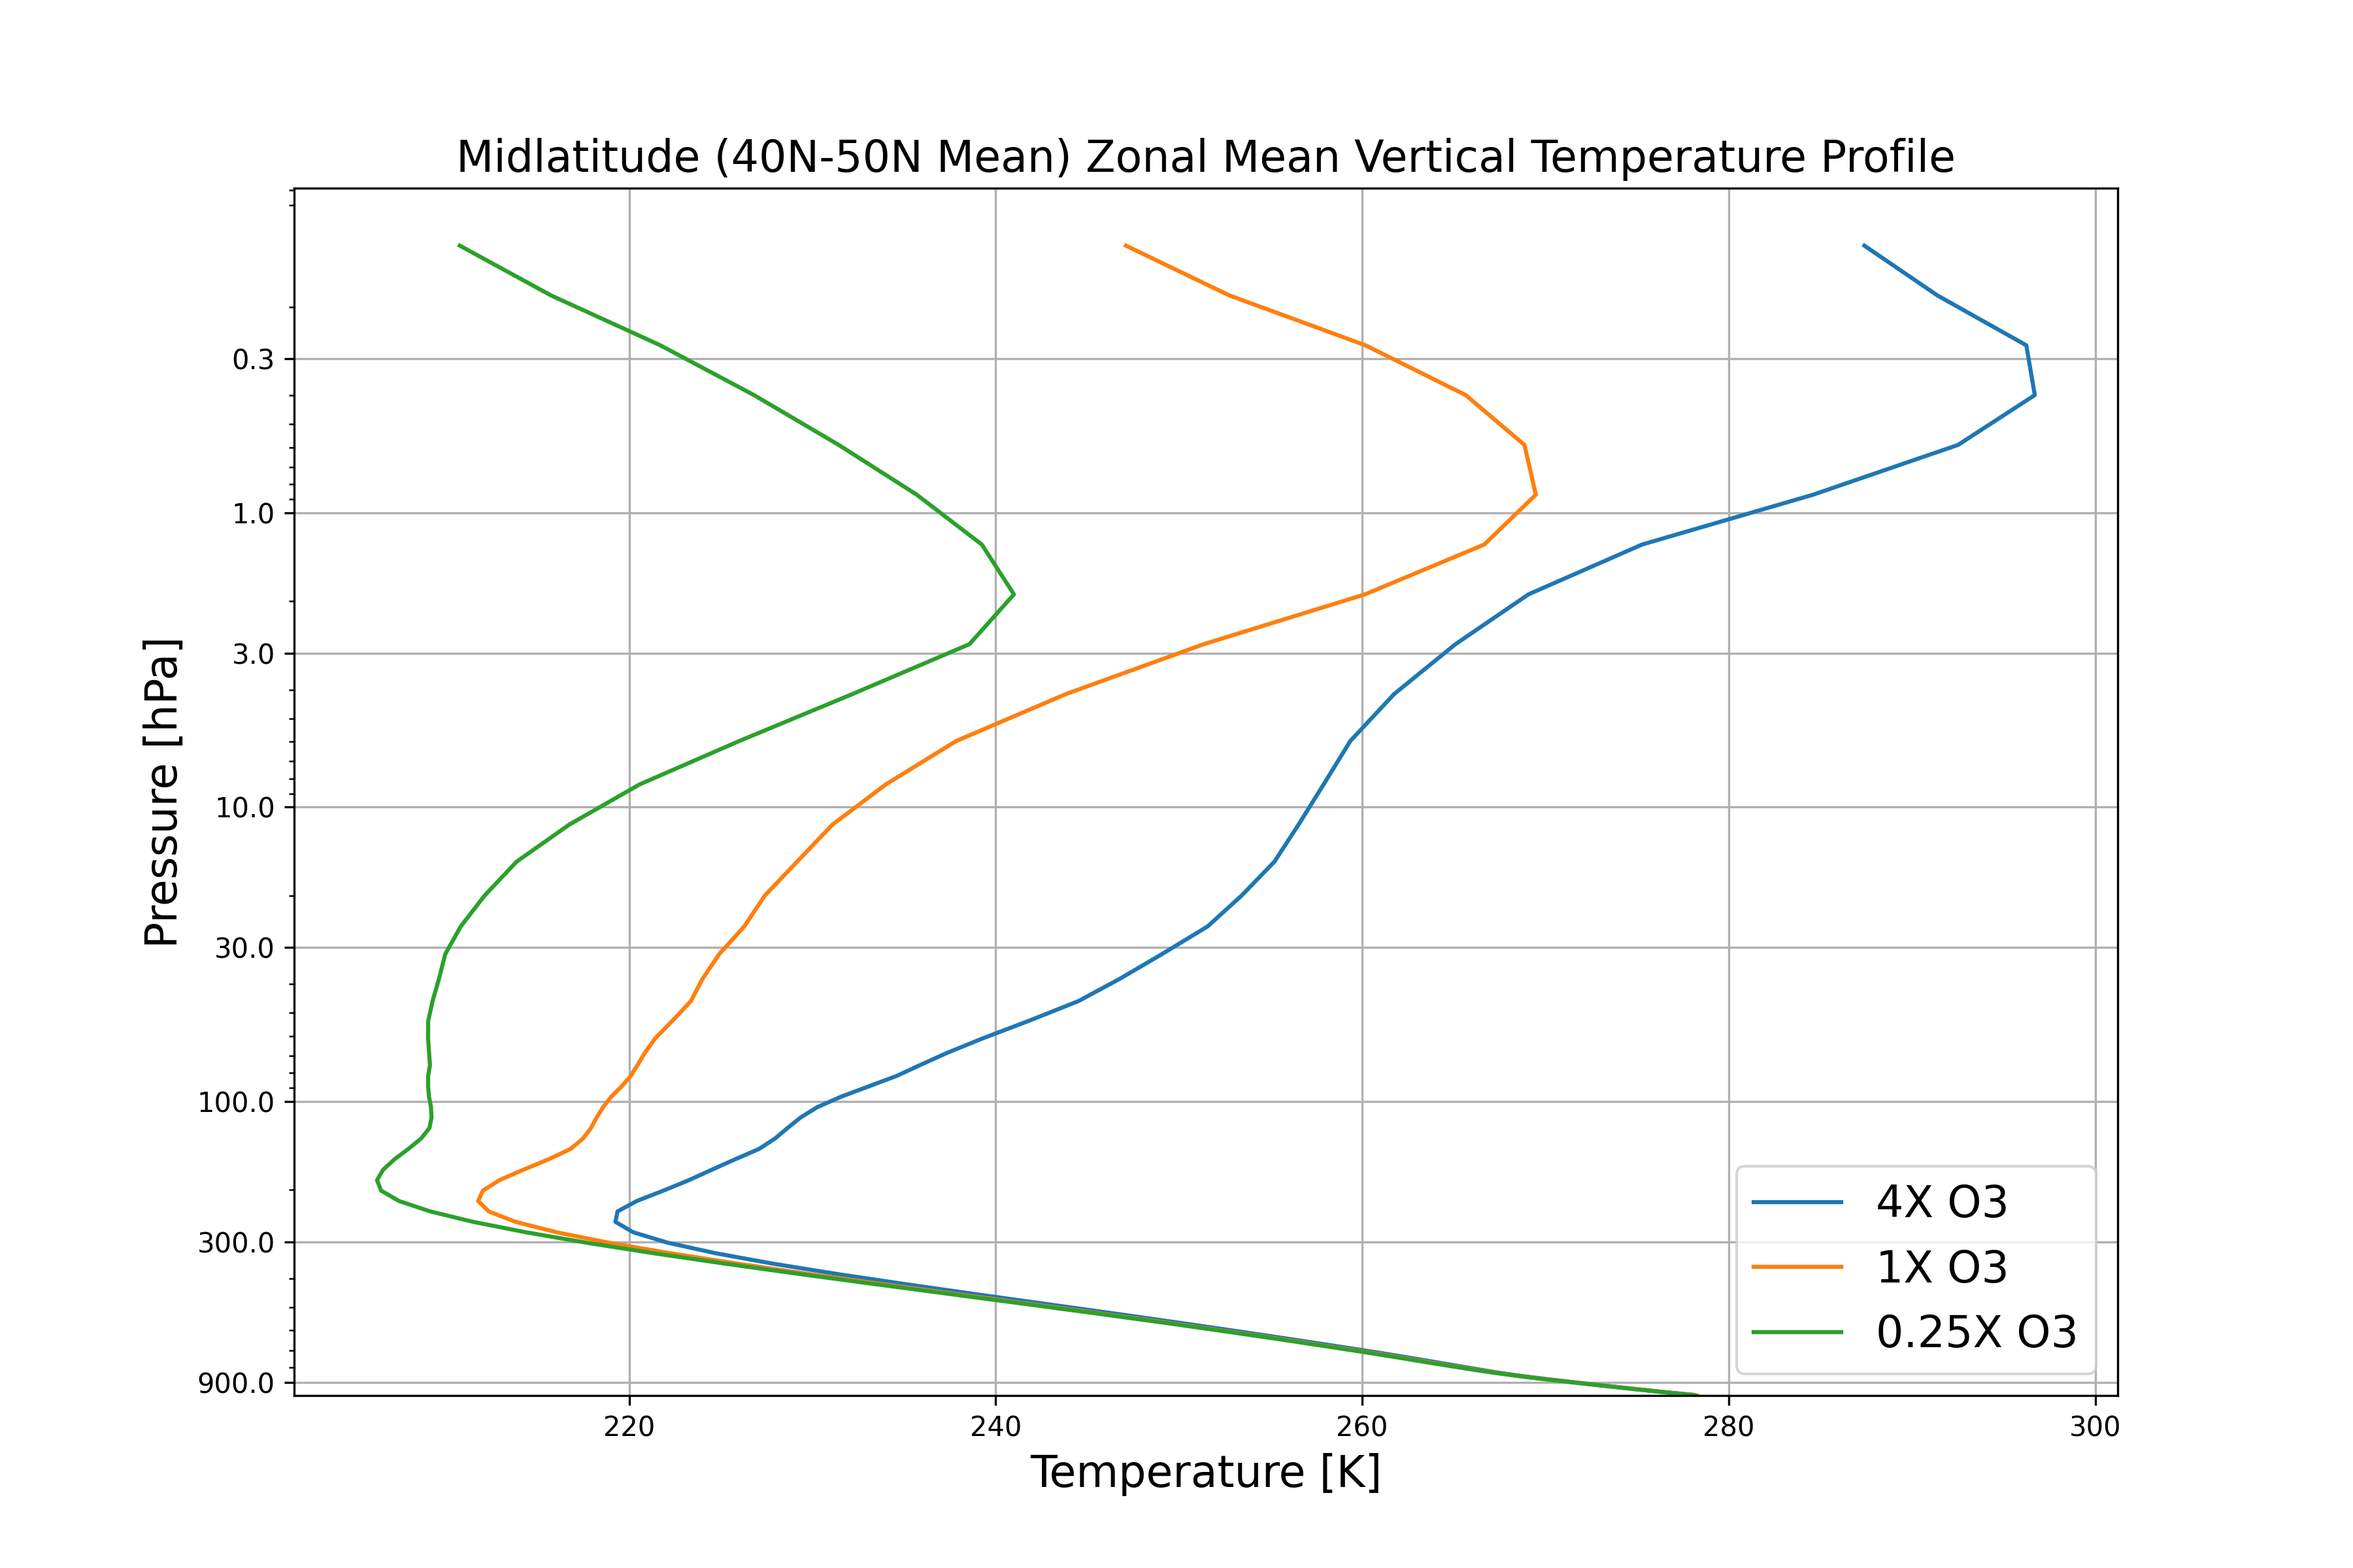
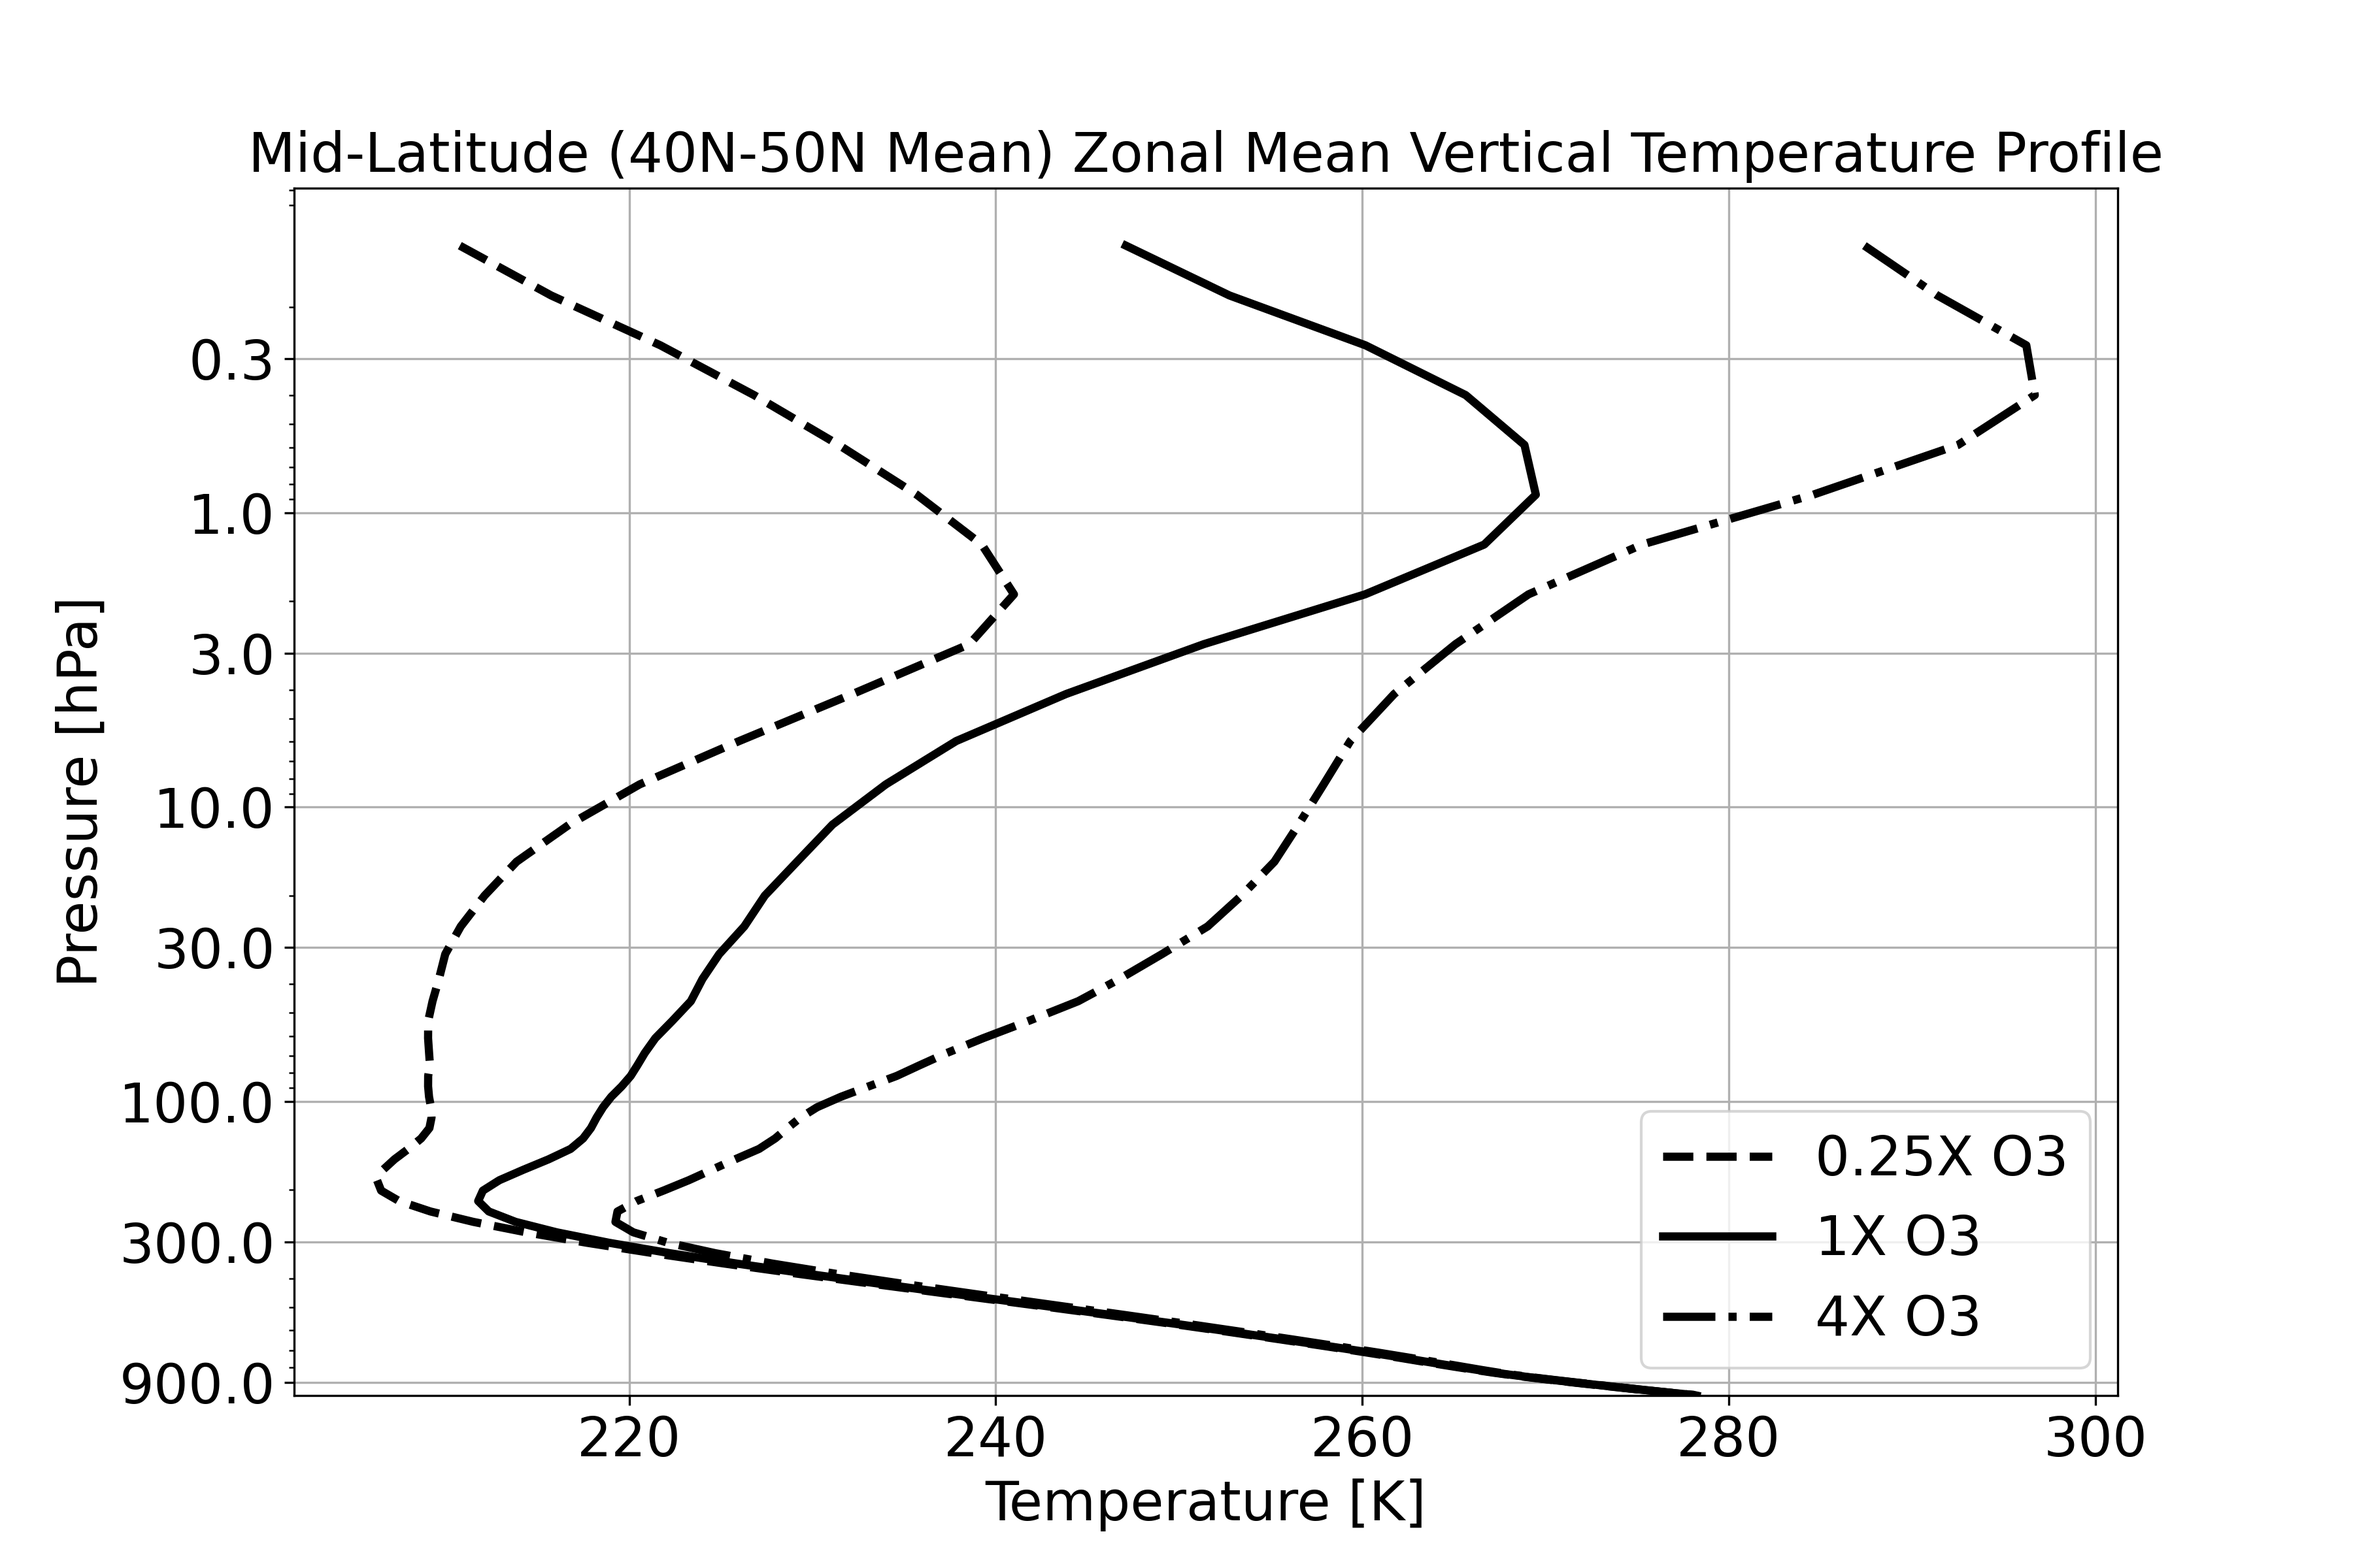
ozone project text updates test 1

diff --git a/_projects/1_project.md b/_projects/1_project.md
@@ -10,31 +10,95 @@ related_publications: false
 
 For my CLIMATE 473 Climate Physics course, I used an aquaplanet model to simulate how increases and decreases in stratospheric ozone can impact the climate system. 
 
-The Theory of Ozone in the Atmosphere:
-* Shortwave Interaction: UV absorption and oxygen photochemistry
-* Longwave Interaction: Absorption bands and the atmospheric window
+# The Radiative Properties of Ozone:
 
-Model info:
-See the full details in the user_namelist file at the bottom of the page
-* Aquaplanet with prescribed sea surface temperatures
-* Spectral Element dynamical core with CAM4 physics at 2 degree resolution
-* 72 vertical level configuration (model top at about 0.1 hPa (65 km))
-* Moist baroclinic wave initial conditions
-* Prescribed ozone concentration (0.25X, 1X, 4X)
-* 10 year long run with monthly mean output
-* Gravity waves by orography are disabled
+Stratospheric ozone, despite it's relatively small concentration compared to other gases in the atmosphere, has a large influence on the climate on Earth. Ozone in the stratosphere is primarily responsible for the existence of a tropopause, where lapse rate of temperature switches sign and separates the unstably stratified troposphere from the stably stratified stratosphere. Ozone has strong interactions with both shortwave (SW) and longwave (LW) radiation.
+
+Put Atmospheric absorption from key molecules here.
+
+Light at UV wavelengths in the stratosphere are absorbed by molecular oxygen (O2) and by ozone (O3) itself. The absorption by O2 is essential in the creation of ozone while the absorption of O3 is a key destructive process of ozone. In an oxygen rich atmosphere like Earth's, the concentration of ozone in the stratosphere is largely a balance between these photochemical creation and destruction processes. These reactions create a continuum absorption band of UV radiation between around $200-300\text{ nm}$.
+
+Additionally, ozone has a strong vibration-rotation absorption band around $9.6~\mu\text{m}$ which lies in Earth's atmospheric window shown in Fig. . The atmospheric window is a region on the infrared spectrum between 8 to 13 $\mu\text{m}$ where the atmosphere is relatively transparent due to a lack of molecules with absorption bands here. However, since ozone's infrared absorption line lies within this window, changes in ozone concentration can strongly influence how transparent the window is and importantly how much radiation at these wavelengths escapes out to space.
+
+# The Aquaplanet Model
+
+An aquaplanet simulation is an idealized global atmospheric model that is completely water-covered with no land, topography, or sea ice. Aquaplanets use a data ocean, an ocean model that uses data to force and determine its state. In the Community Earth System Model (CESM), data-oceans come in two forms: a pure data model based an prescribed sea surface temperatures (SSTs) or a slab-ocean model where bottom heat flux and boundary layer depths are supplied to update SSTs  based on atmosphere-ocean fluxes. Additionally, while aquaplanets maintain a diurnal cycle, a perpetual equinox with a perfectly circular orbit (eccentricity and obliquity of zero) is enforced, resulting in no seasonal cycle. Aquaplanets provide a bridge in the hierarchy of atmospheric general circulation models between simplified physics component sets like the Held-Suarez configuration and Earth-like simulations used in the Atmospheric Modeling Intercomparison Project (AMIP). 
+
+For this project, I ran **three** 10 year-long, fixed SST aquaplanet simulations with prescribed ozone concentrations. The first was a control ozone simulation $(1\times\text{O3})$ with a zonally-uniform, time-independent ozone distribution based upon the Aquaplanet Experiment Project standards that is based upon AMIP climatologies. In order to observe how increases and decreases to ozone impact climate, the other two runs apply a $4\times$ and $1/4\times$ factor to the $1\times$O3 control run respectively. For more details see the dropdowns below:
+
+<details>
+<summary>The Model Details</summary>
+<br>
+    
+* NCAR’s Community Earth System Model [CESM](https://www.cesm.ucar.edu/models/cesm2)
+* [Aquaplanet Configuration with Prescribed SSTs (QPC4)](https://www.cesm.ucar.edu/models/simple/aquaplanet)
+* Community Atmosphere Model (CAM) Version 4 [(user guide and a detailed scientific description available here)](https://www2.cesm.ucar.edu/models/ccsm4.0/cam/)
+* Spectral Element Dynamical Core
+* 2-Degree Horizontal Resolution
+* 72 Level Vertical Resolution with Model Top at 0.1 hPa (~60 km)
+* 10 year simulations with monthly mean output: Only the last 5 years are used in time-averages.
+* Analytic moist baroclinic wave initial conditions ([moist_baroclinic_wave_dcmip2016](https://www.cesm.ucar.edu/models/simple/fkessler) based on [Ullrich et. al 2014](https://doi.org/10.1002/qj.2241))
+
+</details>
+
+<details>
+<summary>Do Ocean Gyres Occur on an Aquaplanet?</summary>
+<br>
+
+In class, we briefly discussed whether or not a planet without land, like an aquaplanet, would have ocean gyres. With a prescribed SST data-ocean, this question cannot be studied by the simulations run for this project as there is no explicit modeling of the ocean circulation. However, this analysis is possible for slab-ocean aquaplanet models. The authors [Smith et. al (2006)](https://doi.org/10.1175/JCLI3874.1) conducted a study that addresses this very question. In the study, they conducted three coupled ocean-atmosphere slab-ocean aquaplanet-like experiments on a low-resolution version of the Fast  Ocean, Rapid Troposphere Experiment (FORTE) model. The first configuration was a typical aquaplanet (WaterWorld) with no land or topography, the second an aquaplanet that contained a low barrier that blocks zonal flow in the ocean at all latitudes (RidgeWorld),and third an aquaplanet with a meridional barrier with a gap in the Southern hemisphere that allows circumglobal flow (DrakeWorld).
+</details>
+
+# Atmospheric Circulation
+
+In the simulations, there are five key observations atmospheric circulation for higher ozone concentrations $(4\times\text{O3})$:
+* Stratospheric warming
+* Thicker stratosphere (higher stratopause and lower tropopause)
+* An unchanged lower tropospheric lapse rate
+* Strenghtened polar stratospheric jets
+* Weakened Hadley Circulation
+
+The opposite story is observed at lower ozone concentrations $(1/4\times\text{O3})$:
+* Stratospheric cooling
+* Thinner stratosphere (lower stratopause and higher tropopause)
+* An unchanged lower tropospheric lapse rate
+* Weakened polar stratospheric jets
+* Strengthened Hadley Circulation
 
 <div class="row">
-    <div class="col-sm mt-3 mt-md-0">
-        {% include figure.liquid loading="eager" path="assets/img/Equatorial_Tprofile_O3comparison.png" title="Equatorial T Profile" class="img-fluid rounded z-depth-1" %}
-    </div>
-    <div class="col-sm mt-3 mt-md-0">
-        {% include figure.liquid loading="eager" path="assets/img/MidLat_Tprofile_O3comparison.png" title="MidLatitude T Profile" class="img-fluid rounded z-depth-1" %}
-    </div>
-    <div class="col-sm mt-3 mt-md-0">
-        {% include figure.liquid loading="eager" path="assets/img/Polar_Tprofile_O3comparison.png" title="Polar T Profile" class="img-fluid rounded z-depth-1" %}
-    </div>
+    {% include figure.liquid loading="eager" path="assets/img/MidLat_Tprofile_O3comparison.png" title="Midlat T Profile" class="img-fluid rounded z-depth-1" %}
 </div>
 <div class="caption">
-    Characteristic temperature profiles for 0.25X, 1X, and 4X ozone concentrations at the equator and at the poles. Each profile is a 5 year zonal average additionally meridionally averaged over 10 degrees of latitude to produce a profile characteristic of the region.
+    Characteristic temperature profiles for 0.25X, 1X, and 4X ozone concentrations at mid-latitudes. Each profile is a 5 year zonal average that is meridionally averaged over 10 degrees of latitude between $40^\circ N-50^\circ N$ to produce a profile characteristic of the mid-latitudes.
 </div>
+
+
+# Energy Balance
+
+The radiative heating profiles of the $1\times\text{O3}$ aquaplanet depict the two key energy balances in the lower atmosphere: a stratosphere in radiative equilibrium and a troposphere in radiative-convective equilibrium. In the stratosphere, the longwave cooling matches the shortwave warming. On the other hand, the troposphere is radiatively cooling which offsets the convective heating from the surface.
+
+For higher ozone concentrations $(4\times\text{O3})$ we see key observations on the radiative heating profiles:
+
+* The LW and SW heating in the stratosphere increase in magnitude
+* The LW and SW budgets in the troposphere are largely unaffected
+
+For lower ozone concentrations $(1/4\times\text{O3})$ we again see the opposite in the stratosphere:
+* The LW and SW heating in the stratosphere decrease in magnitude
+* The LW and SW budgets in the troposphere are largely unaffected
+
+On the global scale, a stable Earth-atmosphere climate system is in a balance between the incoming solar energy and the outgoing longwave radiation from Earth. Stable is meant in the sense that the climate system is at some equilibrium global average temperature over long time scales. This balance is called the top-of-atmosphere (TOA) balance. It is determined by the amount of solar radiation emitted by the Sun incident on Earth, the planetary albedo, and the outgoing longwave radiation. For our simulations, Earth's orbital distance and solar luminosity are constants.
+
+The greater longwave cooling at higher ozone concentrations is a natural consequence of a warmer stratosphere caused by the greater solar absorption from ozone. We might then expect that the greater longwave radiation in the stratosphere would ultimately cause more outgoing longwave radiation at the top of atmosphere. Indeed, as Fig. shows, this is the case and at lower ozone concentrations we analogously see lower OLR on average. To maintain TOA balance, we should expect a decrease in planetary albedo with increasing ozone concentration.
+
+The aquaplanet is a largely cloud covered world with vertically averaged cloud fractions between 0.70 and 0.95 across all the simulations. Clouds play an important role in the radiative budget of the atmosphere because of their shortwave albedo effects and their longwave, greenhouse effects. The albedo effects are particularly important for aquaplanets without sea ice because clouds provide the only mechanism for planetary albedo to change from the oceanic albedo across the globe. We see that the inverse relationship between global cloud cover and ozone concentration is a result of the top-of-atmosphere radiative balance between solar absorption and outgoing long wave radiation. In the $4\times\text{O3}$ run, we see that a decrease in global cloud cover causes a decrease in planetary albedo (greater solar absorption) that offsets that greater OLR to maintain the top of atmosphere radiative balance.
+
+# Quasi-Biennial Oscillation
+
+
+
+
+# Future Work and Questions
+
+
+# The Full Report
+If you're interesting in learning more about this project, I wrote a full report for my course project that includes more figures and details. You can access the report below:
+
